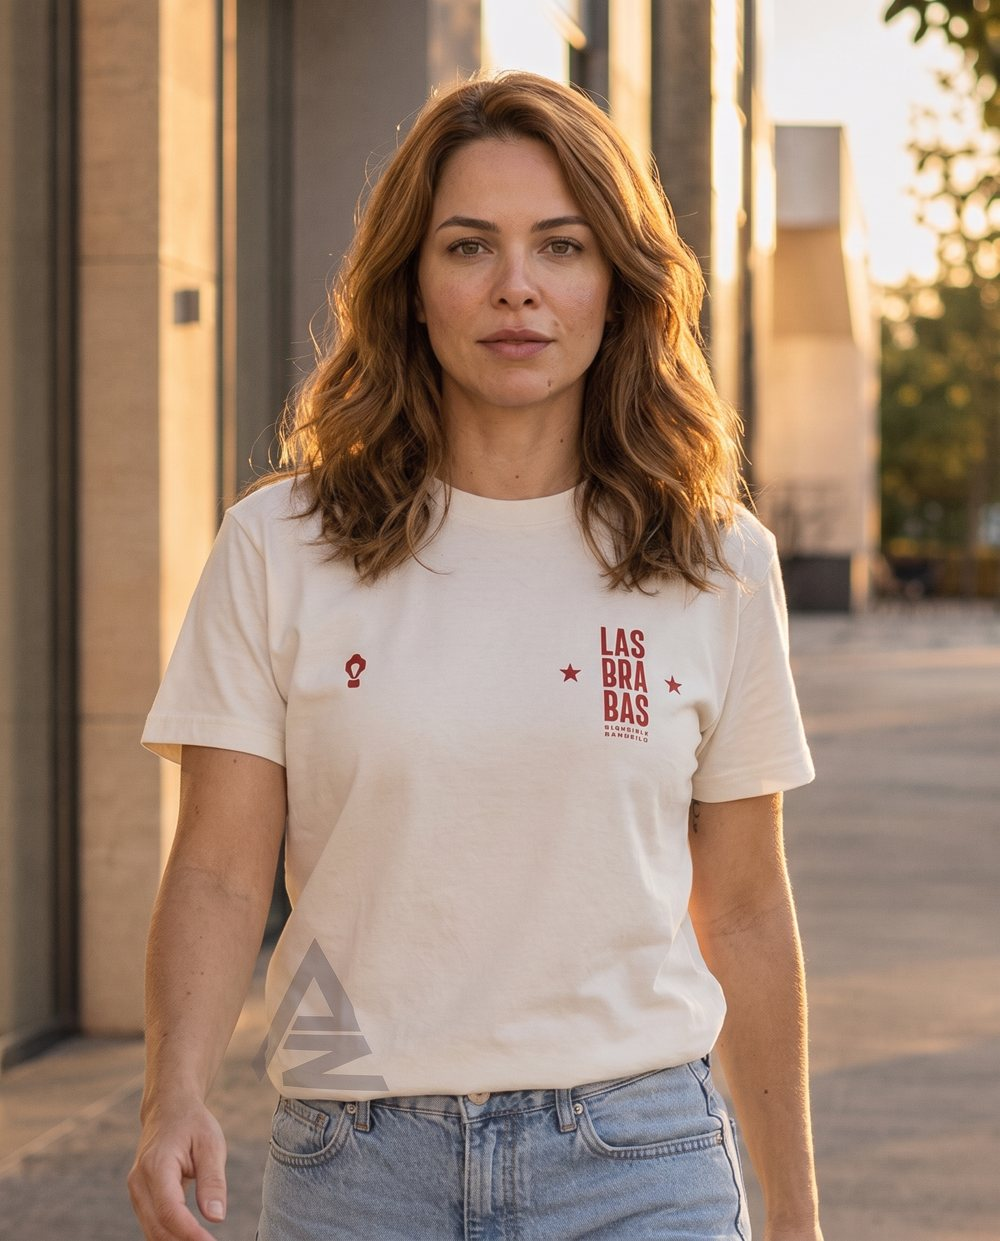
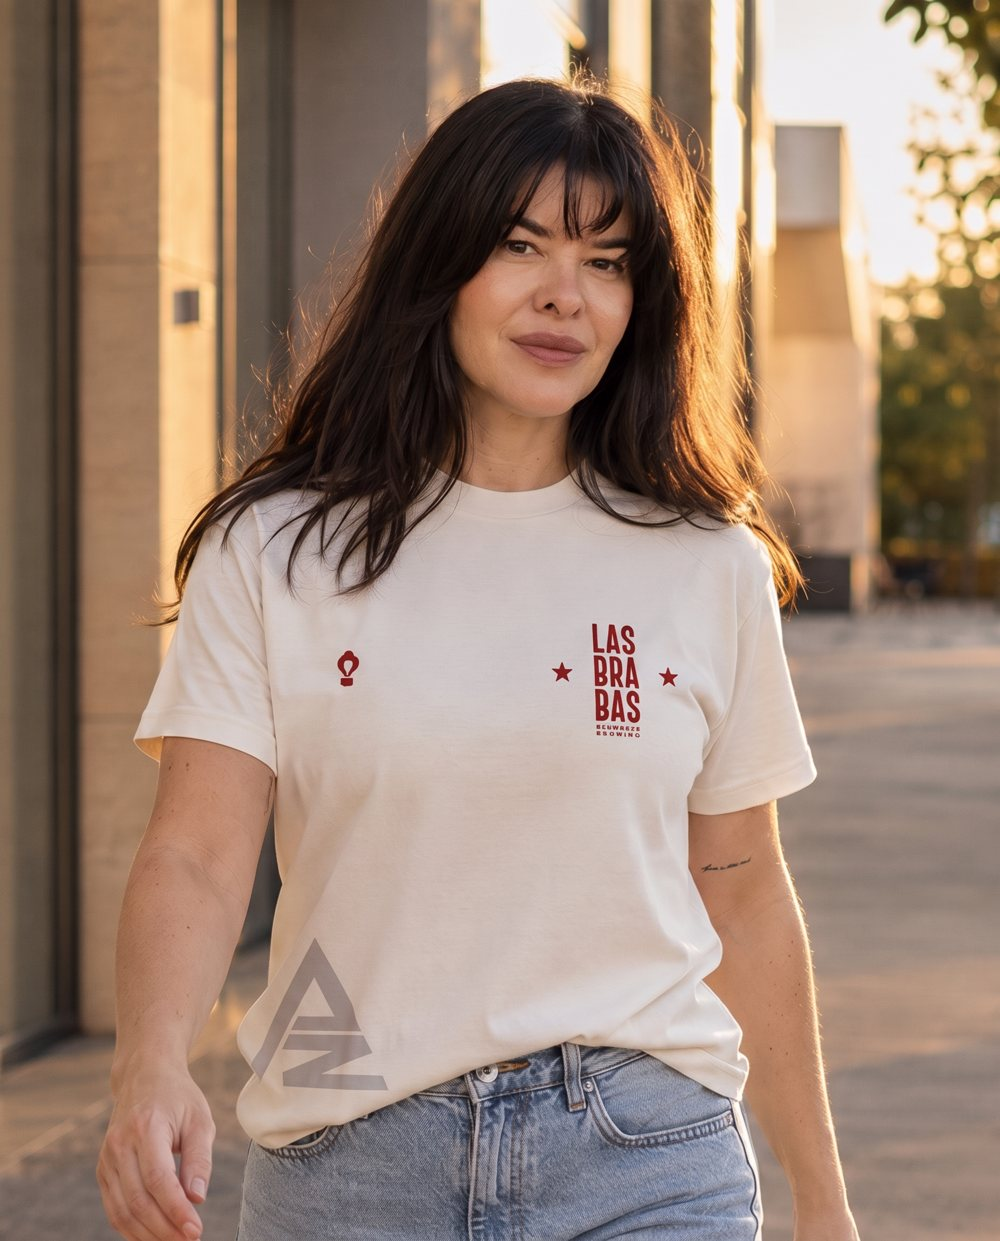
Add files via upload

Changed region(s): [[0.093, 0.0306, 0.868, 1.0], [0.744, 0.1837, 0.775, 0.2143], [0.341, 0.5205, 0.372, 0.5512]]

diff --git a/public/loja/index.html b/public/loja/index.html
@@ -32,6 +32,9 @@ header .wrap{display:flex;align-items:center;justify-content:space-between;heigh
 .secoes a{white-space:nowrap;padding:9px 16px;border-radius:999px;background:#fff;border:1.5px solid var(--linha);color:var(--texto);text-decoration:none;font:600 14px 'Archivo'}
 .secoes a:hover,.secoes a.on{background:var(--azul);border-color:var(--azul);color:#fff}
 .secao{scroll-margin-top:130px;margin-bottom:34px}
+.galeria img.peca{object-fit:contain;background:#eef0f4}
+.toggles{flex-wrap:wrap;justify-content:flex-start}
+.aviso{position:absolute;left:10px;right:10px;bottom:56px;background:rgba(20,33,58,.78);color:#fff;font-size:12px;padding:6px 10px;border-radius:8px;display:none}
 .faixa{position:absolute;top:12px;left:12px;background:#b3261e;color:#fff;font:700 12px 'Archivo';letter-spacing:.1em;text-transform:uppercase;padding:6px 12px;border-radius:999px}
 .card.esgotado .galeria img{filter:grayscale(.35) brightness(.9)}
 .preco.esg{color:#b3261e;font-size:22px;text-transform:uppercase;letter-spacing:.04em}
@@ -106,7 +109,7 @@ input:focus,textarea:focus{outline:2px solid var(--amarelo);border-color:var(--a
 
 <header>
   <div class="wrap">
-    <div class="marca"><img src="/loja/logo.png?v=2" alt="">Azambuja Jiu-Jitsu</div>
+    <div class="marca"><img src="/loja/logo.png?v=4" alt="">Azambuja Jiu-Jitsu</div>
     <button class="btn-carrinho" id="abrir">Sacola (<span id="qtdTotal">0</span>)</button>
   </div>
 </header>
@@ -175,20 +178,20 @@ const TAMANHOS_ADULTO = ["P","M","G","GG"];
 const PRODUTOS = [
   {id:"samurai-branca", categoria:"camisetas", nome:"Camiseta Código Samurai · Branca",
    sub:"Coleção retrô redesenhada. Estampa azul, selo no peito e frase nas costas", preco:80.00, tamanhos:TAMANHOS_ADULTO,
-   fotos:(m,l)=>`/loja/branca-${m}-${l}.jpg?v=2`, modelos:true, lados:true},
+   peca:"/loja/peca-samurai-branca.jpg?v=4", fotos:(m,l)=>`/loja/branca-${m}-${l}.jpg?v=4`, modelos:true, lados:true},
   {id:"samurai-marinho", categoria:"camisetas", nome:"Camiseta Código Samurai · Azul-marinho",
    sub:"Coleção retrô redesenhada. Estampa branca, selo no peito e frase nas costas", preco:80.00, tamanhos:TAMANHOS_ADULTO,
-   fotos:(m,l)=>`/loja/marinho-${m}-${l}.jpg?v=2`, modelos:true, lados:true},
+   peca:"/loja/peca-samurai-marinho.jpg?v=4", fotos:(m,l)=>`/loja/marinho-${m}-${l}.jpg?v=4`, modelos:true, lados:true},
   {id:"lasbrabas-camiseta", categoria:"camisetas", nome:"Camiseta Las Brabas", sub:"Coleção Las Brabas",
-   esgotado:true, fotos:(m,l)=>`/loja/lasbrabas-camiseta-${l}.jpg?v=2`, lados:true},
+   esgotado:true, fotos:(m,l)=>`/loja/lasbrabas-camiseta-${l}.jpg?v=4`, lados:true},
   {id:"lasbrabas-moletom", categoria:"moletons", nome:"Moletom Las Brabas", sub:"Coleção Las Brabas",
-   esgotado:true, fotos:(m,l)=>`/loja/lasbrabas-moletom-${l}.jpg?v=2`, lados:true},
+   esgotado:true, fotos:(m,l)=>`/loja/lasbrabas-moletom-${l}.jpg?v=4`, lados:true},
   {id:"lasbrabas-rashlonga", categoria:"rashguards", nome:"Rashguard Manga Longa Las Brabas", sub:"Coleção Las Brabas",
-   esgotado:true, fotos:(m,l)=>`/loja/lasbrabas-rashlonga-${l}.jpg?v=2`, lados:true},
+   esgotado:true, peca:"/loja/peca-rashlonga.jpg?v=4", fotos:(m,l)=>`/loja/lasbrabas-rashlonga-${l}.jpg?v=4`},
   {id:"lasbrabas-rashcurta", categoria:"rashguards", nome:"Rashguard Manga Curta Las Brabas", sub:"Coleção Las Brabas",
-   esgotado:true, fotos:(m,l)=>`/loja/lasbrabas-rashcurta-${l}.jpg?v=2`, lados:true},
+   esgotado:true, peca:"/loja/peca-rashcurta.jpg?v=4", fotos:(m,l)=>`/loja/lasbrabas-rashcurta-${l}.jpg?v=4`},
   {id:"legging", categoria:"leggings", nome:"Legging Las Brabas", sub:"Coleção Las Brabas",
-   esgotado:true, fotos:(m,l)=>`/loja/legging-${l}.jpg?v=2`, lados:true}
+   esgotado:true, peca:"/loja/peca-legging.jpg?v=4", fotos:(m,l)=>`/loja/legging-${l}.jpg?v=4`}
 ];
 /* ======================================================= */
 
@@ -203,9 +206,11 @@ function montarProdutos(){
   document.getElementById("vitrine").innerHTML = CATEGORIAS.map(c=>{
     const lista = PRODUTOS.filter(p=>p.categoria===c.id);
     const corpo = lista.length ? `<div class="produtos">${lista.map(p=>{
-      estado[p.id] = {modelo:"masc", lado:"frente", tam:null};
-      const grupos = (p.modelos ? `<div class="grupo" data-g="modelo"><button data-v="masc" class="on">Masculino</button><button data-v="fem">Feminino</button></div>` : "")
-        + (p.lados ? `<div class="grupo" data-g="lado"><button data-v="frente" class="on">Frente</button><button data-v="costas">Costas</button></div>` : "");
+      estado[p.id] = {vista:p.peca?"peca":"modelo", modelo:"masc", lado:"frente", tam:null};
+      const oculto = p.peca ? ' style="display:none"' : "";
+      const grupos = (p.peca ? `<div class="grupo" data-g="vista"><button data-v="peca" class="on">Peça</button><button data-v="modelo">Modelo</button></div>` : "")
+        + (p.modelos ? `<div class="grupo" data-g="modelo"${oculto}><button data-v="masc" class="on">Masculino</button><button data-v="fem">Feminino</button></div>` : "")
+        + (p.lados ? `<div class="grupo" data-g="lado"${oculto}><button data-v="frente" class="on">Frente</button><button data-v="costas">Costas</button></div>` : "");
       const toggles = grupos ? `<div class="toggles">${grupos}</div>` : "";
       const faixa = p.esgotado ? `<span class="faixa">Esgotado</span>` : "";
       const compra = p.esgotado
@@ -217,7 +222,7 @@ function montarProdutos(){
         <button class="add">Adicionar à sacola</button>
         <div class="erro" id="e-${p.id}">Escolha um tamanho.</div>`;
       return `<article class="card${p.esgotado?" esgotado":""}" id="p-${p.id}">
-      <div class="galeria"><img alt="${p.nome}" src="${p.fotos("masc","frente")}">${faixa}${toggles}</div>
+      <div class="galeria"><img alt="${p.nome}" class="${p.peca?"peca":""}" src="${p.peca||p.fotos("masc","frente")}">${faixa}<div class="aviso">Fotos com modelo são ilustrativas. A estampa pode variar um pouco da peça.</div>${toggles}</div>
       <div class="corpo">
         <h2>${p.nome}</h2><div class="sub">${p.sub}</div>
         ${compra}
@@ -228,7 +233,14 @@ function montarProdutos(){
 
   PRODUTOS.forEach(p=>{
     const card = document.getElementById("p-"+p.id), img = card.querySelector(".galeria img");
-    const atualiza = () => img.src = p.fotos(estado[p.id].modelo, estado[p.id].lado);
+    const aviso = card.querySelector(".aviso");
+    const atualiza = () => {
+      const st = estado[p.id], peca = p.peca && st.vista==="peca";
+      img.classList.toggle("peca", !!peca);
+      img.src = peca ? p.peca : p.fotos(st.modelo, st.lado);
+      card.querySelectorAll('.grupo[data-g="modelo"],.grupo[data-g="lado"]').forEach(g=>g.style.display = peca ? "none" : "flex");
+      if(aviso) aviso.style.display = peca ? "none" : "block";
+    };
     card.querySelectorAll(".grupo").forEach(g=>g.addEventListener("click",e=>{
       const b=e.target.closest("button"); if(!b) return;
       g.querySelectorAll("button").forEach(x=>x.classList.remove("on")); b.classList.add("on");
@@ -243,7 +255,7 @@ function montarProdutos(){
     card.querySelector(".add").addEventListener("click",()=>{
       if(!estado[p.id].tam){ document.getElementById("e-"+p.id).style.display="block"; return; }
       const ex = sacola.find(i=>i.id===p.id && i.tam===estado[p.id].tam);
-      if(ex) ex.q++; else sacola.push({id:p.id,nome:p.nome,tam:estado[p.id].tam,q:1,preco:p.preco,foto:p.fotos("masc","frente")});
+      if(ex) ex.q++; else sacola.push({id:p.id,nome:p.nome,tam:estado[p.id].tam,q:1,preco:p.preco,foto:p.peca||p.fotos("masc","frente")});
       salvar(); desenhar(); abrir();
     });
   });
